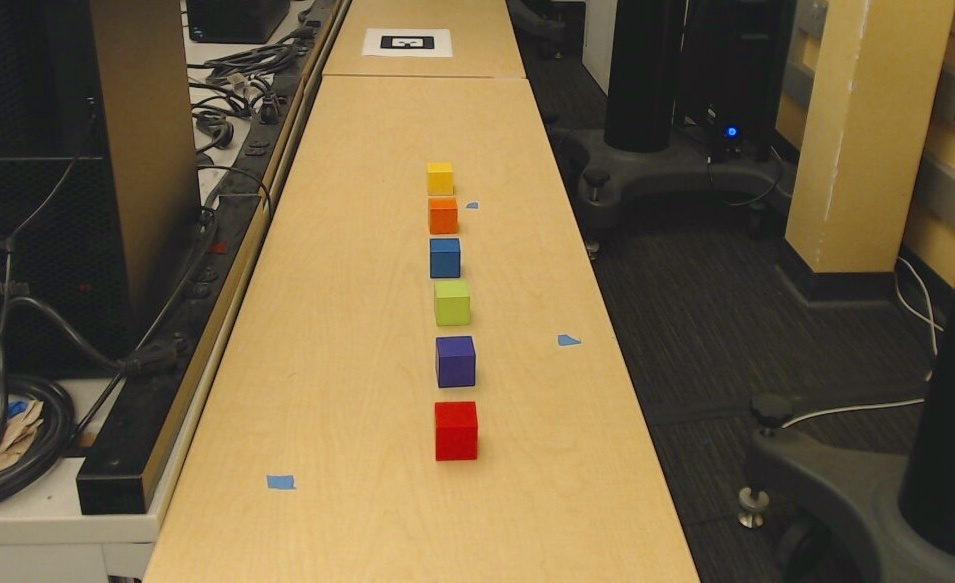
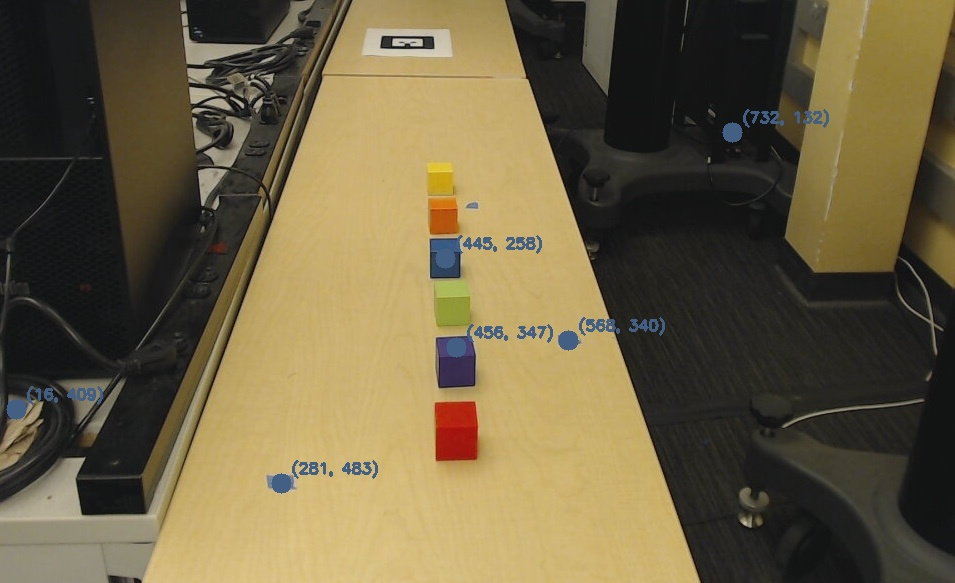
adding a lighting calibration option

diff --git a/color_detection.py b/color_detection.py
@@ -2,13 +2,13 @@ import cv2
 import numpy as np
 
 COLORS = {
-    "red": np.array([1, 230, 162]), # 0   
-    "yellow": np.array([26, 201, 225]), # 2
-    "blue": np.array([106, 149, 125]), # 4 
-    "orange": np.array([13, 228, 180]), # 1
-    "green": np.array([33, 181, 158]), # 3
-    "black": np.array([25, 29, 52]), # 6     
-    "purple": np.array([130, 116, 79]) # 5
+    "red": np.array([1, 230, 162]), 
+    "orange": np.array([13, 228, 180]), 
+    "yellow": np.array([26, 201, 225]),
+    "green": np.array([33, 181, 158]),
+    "blue": np.array([106, 149, 125]),
+    "purple": np.array([130, 116, 79]),
+    "black": np.array([25, 29, 52]),
 }
 
 COLOR_2_IDX = {
@@ -21,48 +21,10 @@ COLOR_2_IDX = {
     "black" : 6,
 }
 
-def ensure_color_area_in_image(image_path, target_color, area_threshold=500):
-    assert target_color in COLORS, f"{target_color} not found in COLORS dictionary."
-    
-    image = cv2.imread(image_path)
-    if image is None:
-        raise ValueError(f"Image at path {image_path} could not be loaded.")
-
-    # Convert image to HSV
-    hsv_image = cv2.cvtColor(image, cv2.COLOR_BGR2HSV).astype(np.float32)
-
-    # Target color in HSV
-    target_hsv = COLORS[target_color].astype(np.float32)
-
-    # Compute the distance of each pixel to the target color in HSV space
-    diff = hsv_image - target_hsv
-    diff[:, :, 0] = np.minimum(np.abs(diff[:, :, 0]), 180 - np.abs(diff[:, :, 0]))  # Handle circular Hue
-    distance = np.sqrt(np.sum(diff ** 2, axis=2))
-
-    # Find the closest pixels
-    closest_pixels = np.argsort(distance.ravel())[:area_threshold]
-    indices = np.unravel_index(closest_pixels, distance.shape)
-
-    # Compute the average color of the closest area
-    closest_hsv_values = hsv_image[indices]
-    average_closest_hsv = np.mean(closest_hsv_values, axis=0)
-
-    # Compute global adjustment to bring the average to the target color
-    adjustment = target_hsv - average_closest_hsv
-
-    # Apply the adjustment globally
-    adjusted_hsv_image = hsv_image + adjustment
-    adjusted_hsv_image = np.clip(adjusted_hsv_image, [0, 0, 0], [180, 255, 255])
-
-    # Convert back to BGR
-    adjusted_image = cv2.cvtColor(adjusted_hsv_image.astype(np.uint8), cv2.COLOR_HSV2BGR)
-
-    return adjusted_image, diff
-
-def detect_color_positions(target_color, image_path, output_path, tolerance=(1, 10, 10)):
+def detect_color_positions(target_color, image_path, output_path, tolerance=(20, 100, 100)):
     assert target_color in COLORS
 
-    image, _ = ensure_color_area_in_image(image_path, target_color) #cv2.imread(image_path)
+    image = cv2.imread(image_path)
     hsv = cv2.cvtColor(image, cv2.COLOR_BGR2HSV)
 
     base_hsv = COLORS[target_color]
@@ -96,32 +58,53 @@ def detect_color_positions(target_color, image_path, output_path, tolerance=(1, 
             cv2.putText(image, f"({cx}, {cy})", (cx + 10, cy - 10),
                         cv2.FONT_HERSHEY_SIMPLEX, 0.5, bgr_color, 2)
 
-
     cv2.imwrite(output_path, image)
     return positions
 
 color_positions = {color : [] for color in COLORS}
 
 example = input('Use which example to test on? ')
-print('detect which colors? [submit a non-color to be done]')
+image_path = f'pictures/logitech_examples/example{example}.jpg'
+
+def get_hsv_value(event, x, y, flags, param):
+    global click_count, detect_colors, COLORS, hsv, image
+
+    if event == cv2.EVENT_LBUTTONDOWN and click_count < len(detect_colors):
+        hsv_value = hsv[y, x]
+        color_name = detect_colors[click_count]
+        COLORS[color_name] = hsv_value
+        print(f"Updated '{color_name}' to HSV value from ({x}, {y}): {hsv_value}")
+        click_count += 1
+
+print("Detect which colors? [submit a non-color to be done]")
 detect_colors = []
 c = input()
 while c in COLORS:
     detect_colors.append(c)
     c = input()
 
-image_path = f'pictures/logitech_examples/example{example}.jpg'
+calibrate_colors = input("Calibrate colors? [y/n]: ")
+if calibrate_colors == "y":
+    click_count = 0
+    image = cv2.imread(image_path)
+    hsv = cv2.cvtColor(image, cv2.COLOR_BGR2HSV)
+    cv2.namedWindow("Image")
+    cv2.setMouseCallback("Image", get_hsv_value)
+    while click_count < len(detect_colors):
+        cv2.imshow("Image", image)
+        key = cv2.waitKey(1) & 0xFF
+        if key == 27:
+            print("Exiting...")
+            break
+
+    cv2.destroyAllWindows()
+    print("Updated COLORS:", COLORS)
+
 for color in detect_colors:
     output_path = f'pictures/logitech_examples_output/example{example}_output_{color}.jpg'
     color_positions[color] = detect_color_positions(color, image_path, output_path)
 
-    adjusted, diff = ensure_color_area_in_image(image_path, color)
-    cv2.imwrite(f'pictures/logitech_examples_output/masks/adjusted_{color}.jpg', adjusted)
-    cv2.imwrite(f'pictures/logitech_examples_output/masks/diff_{color}.jpg', diff)
-
-colors_detected = [color for color in COLORS if color_positions[color] != []]
-
-# print(color_positions)
+colors_detected = [color for color in detect_colors if color_positions[color] != []]
 
 initial_color_order = sorted(colors_detected, key=lambda c: color_positions[c][0][1])
 
